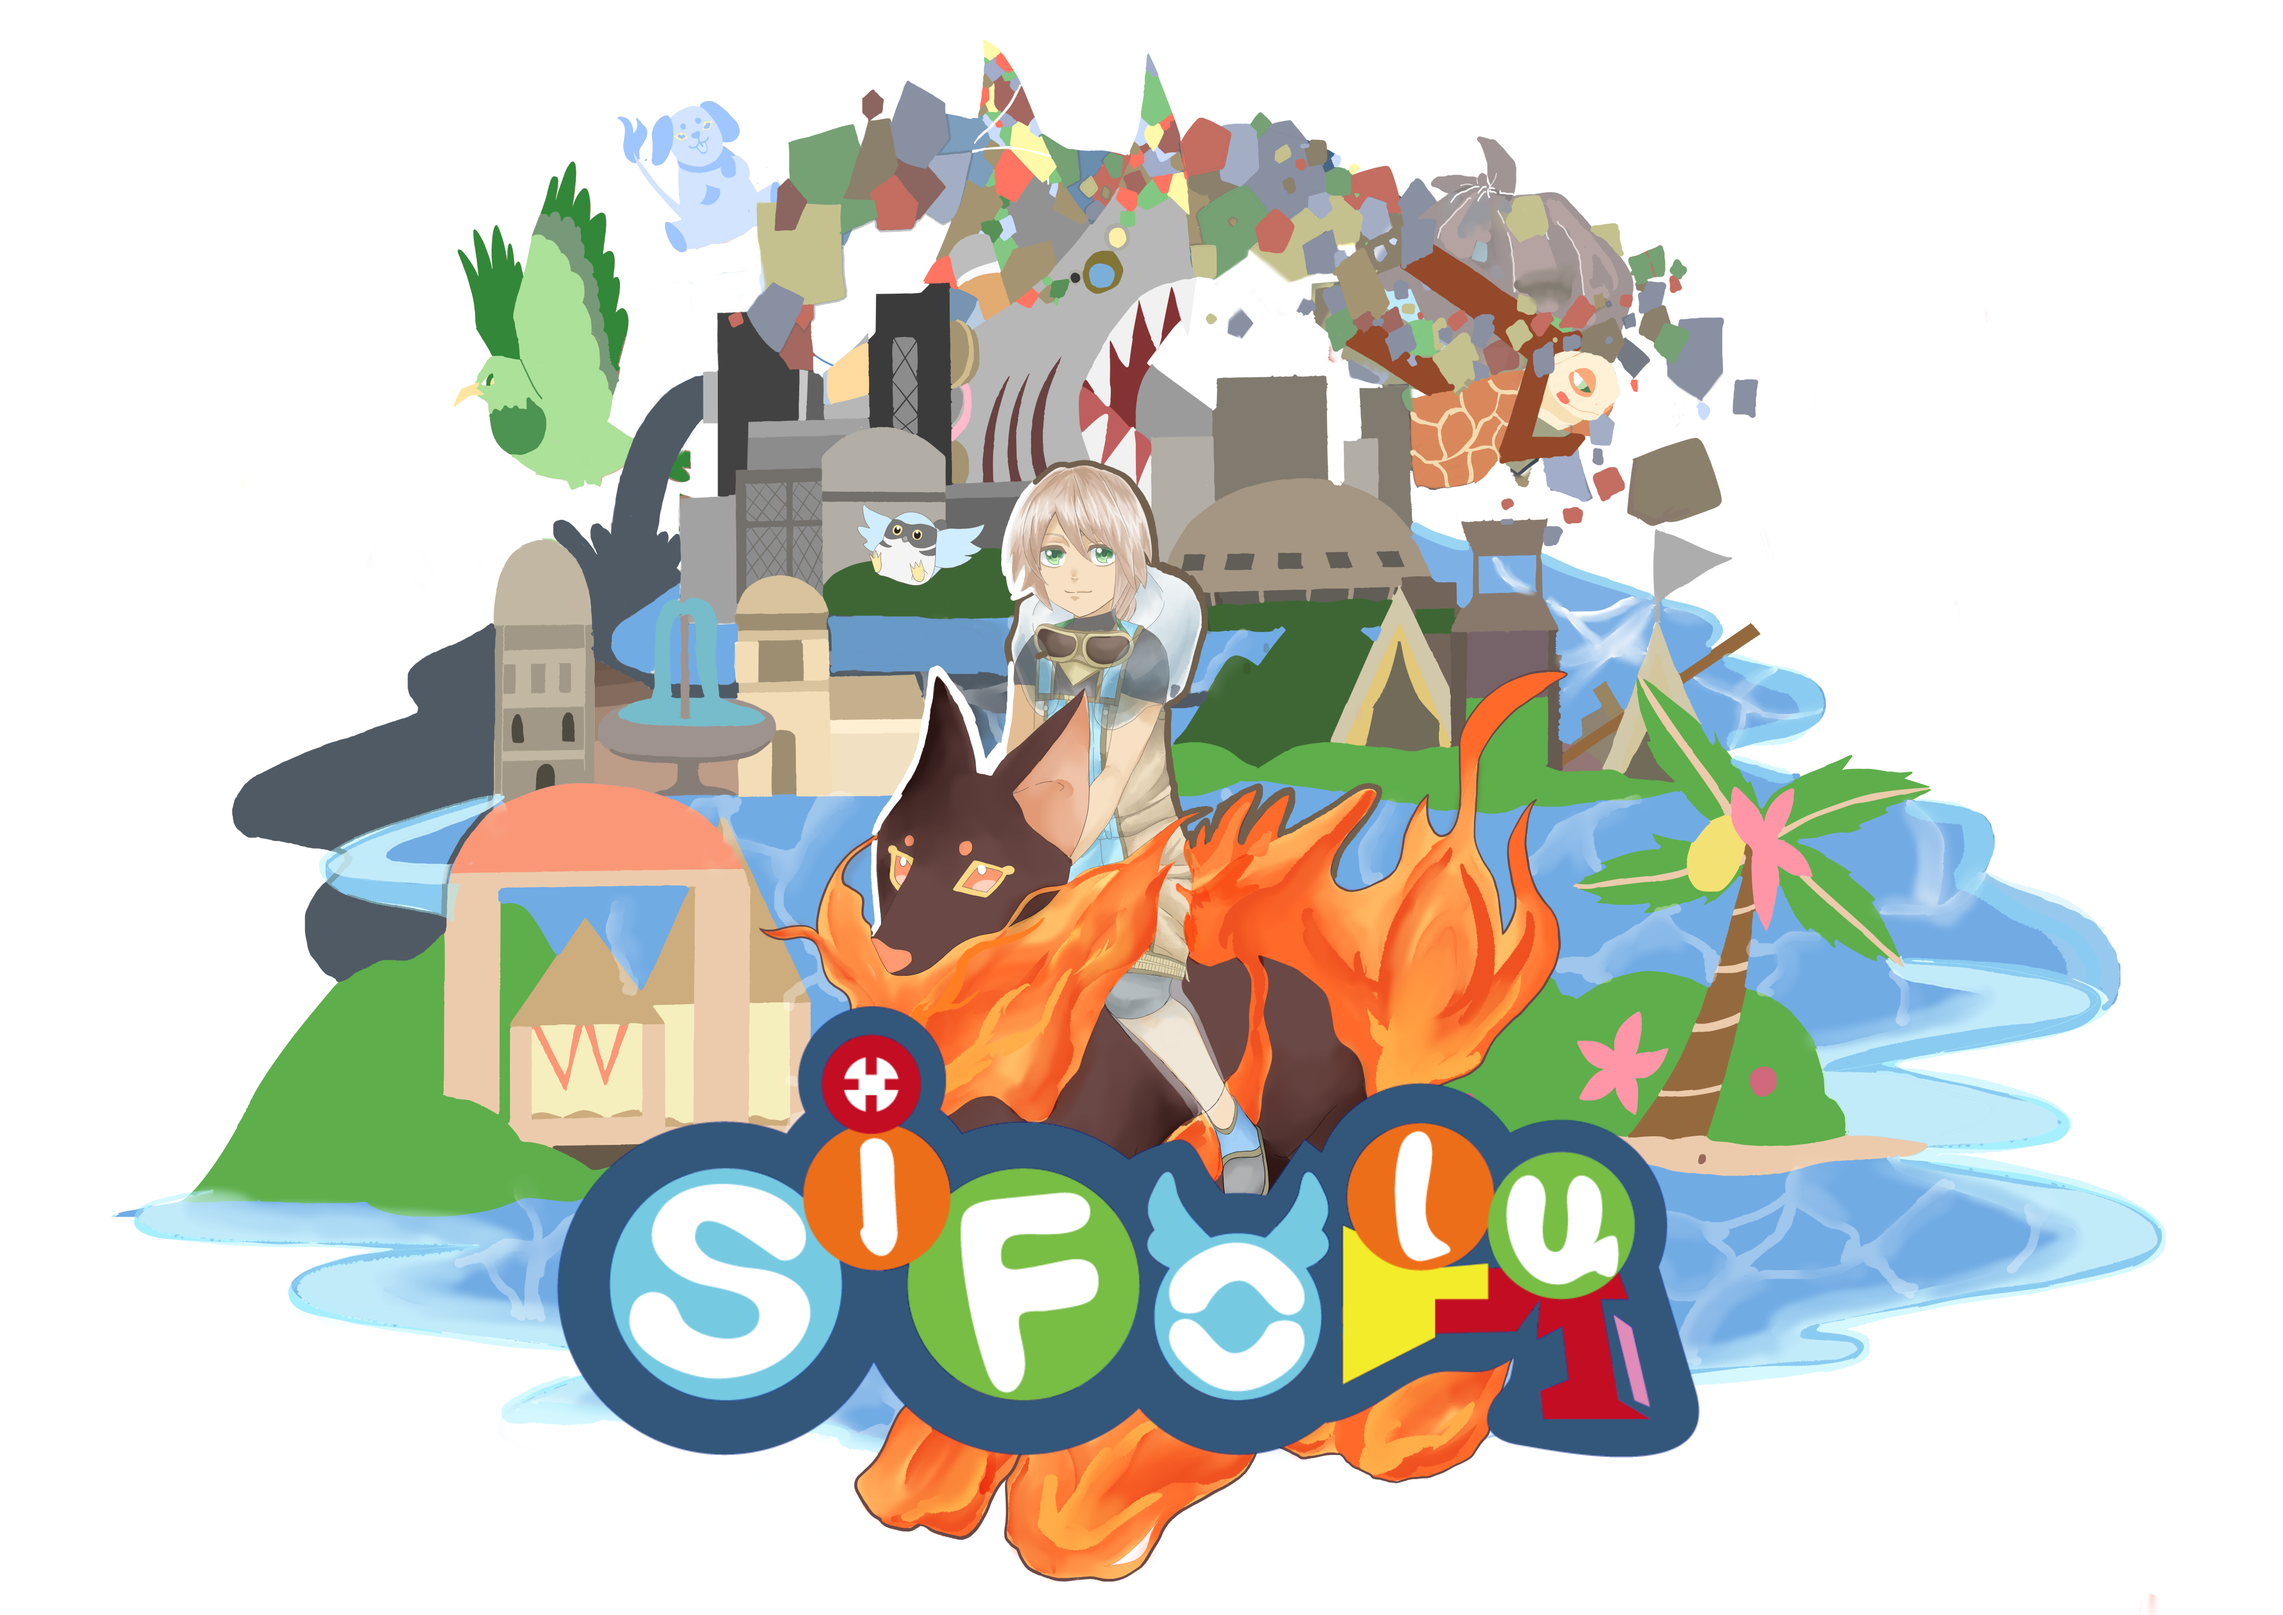
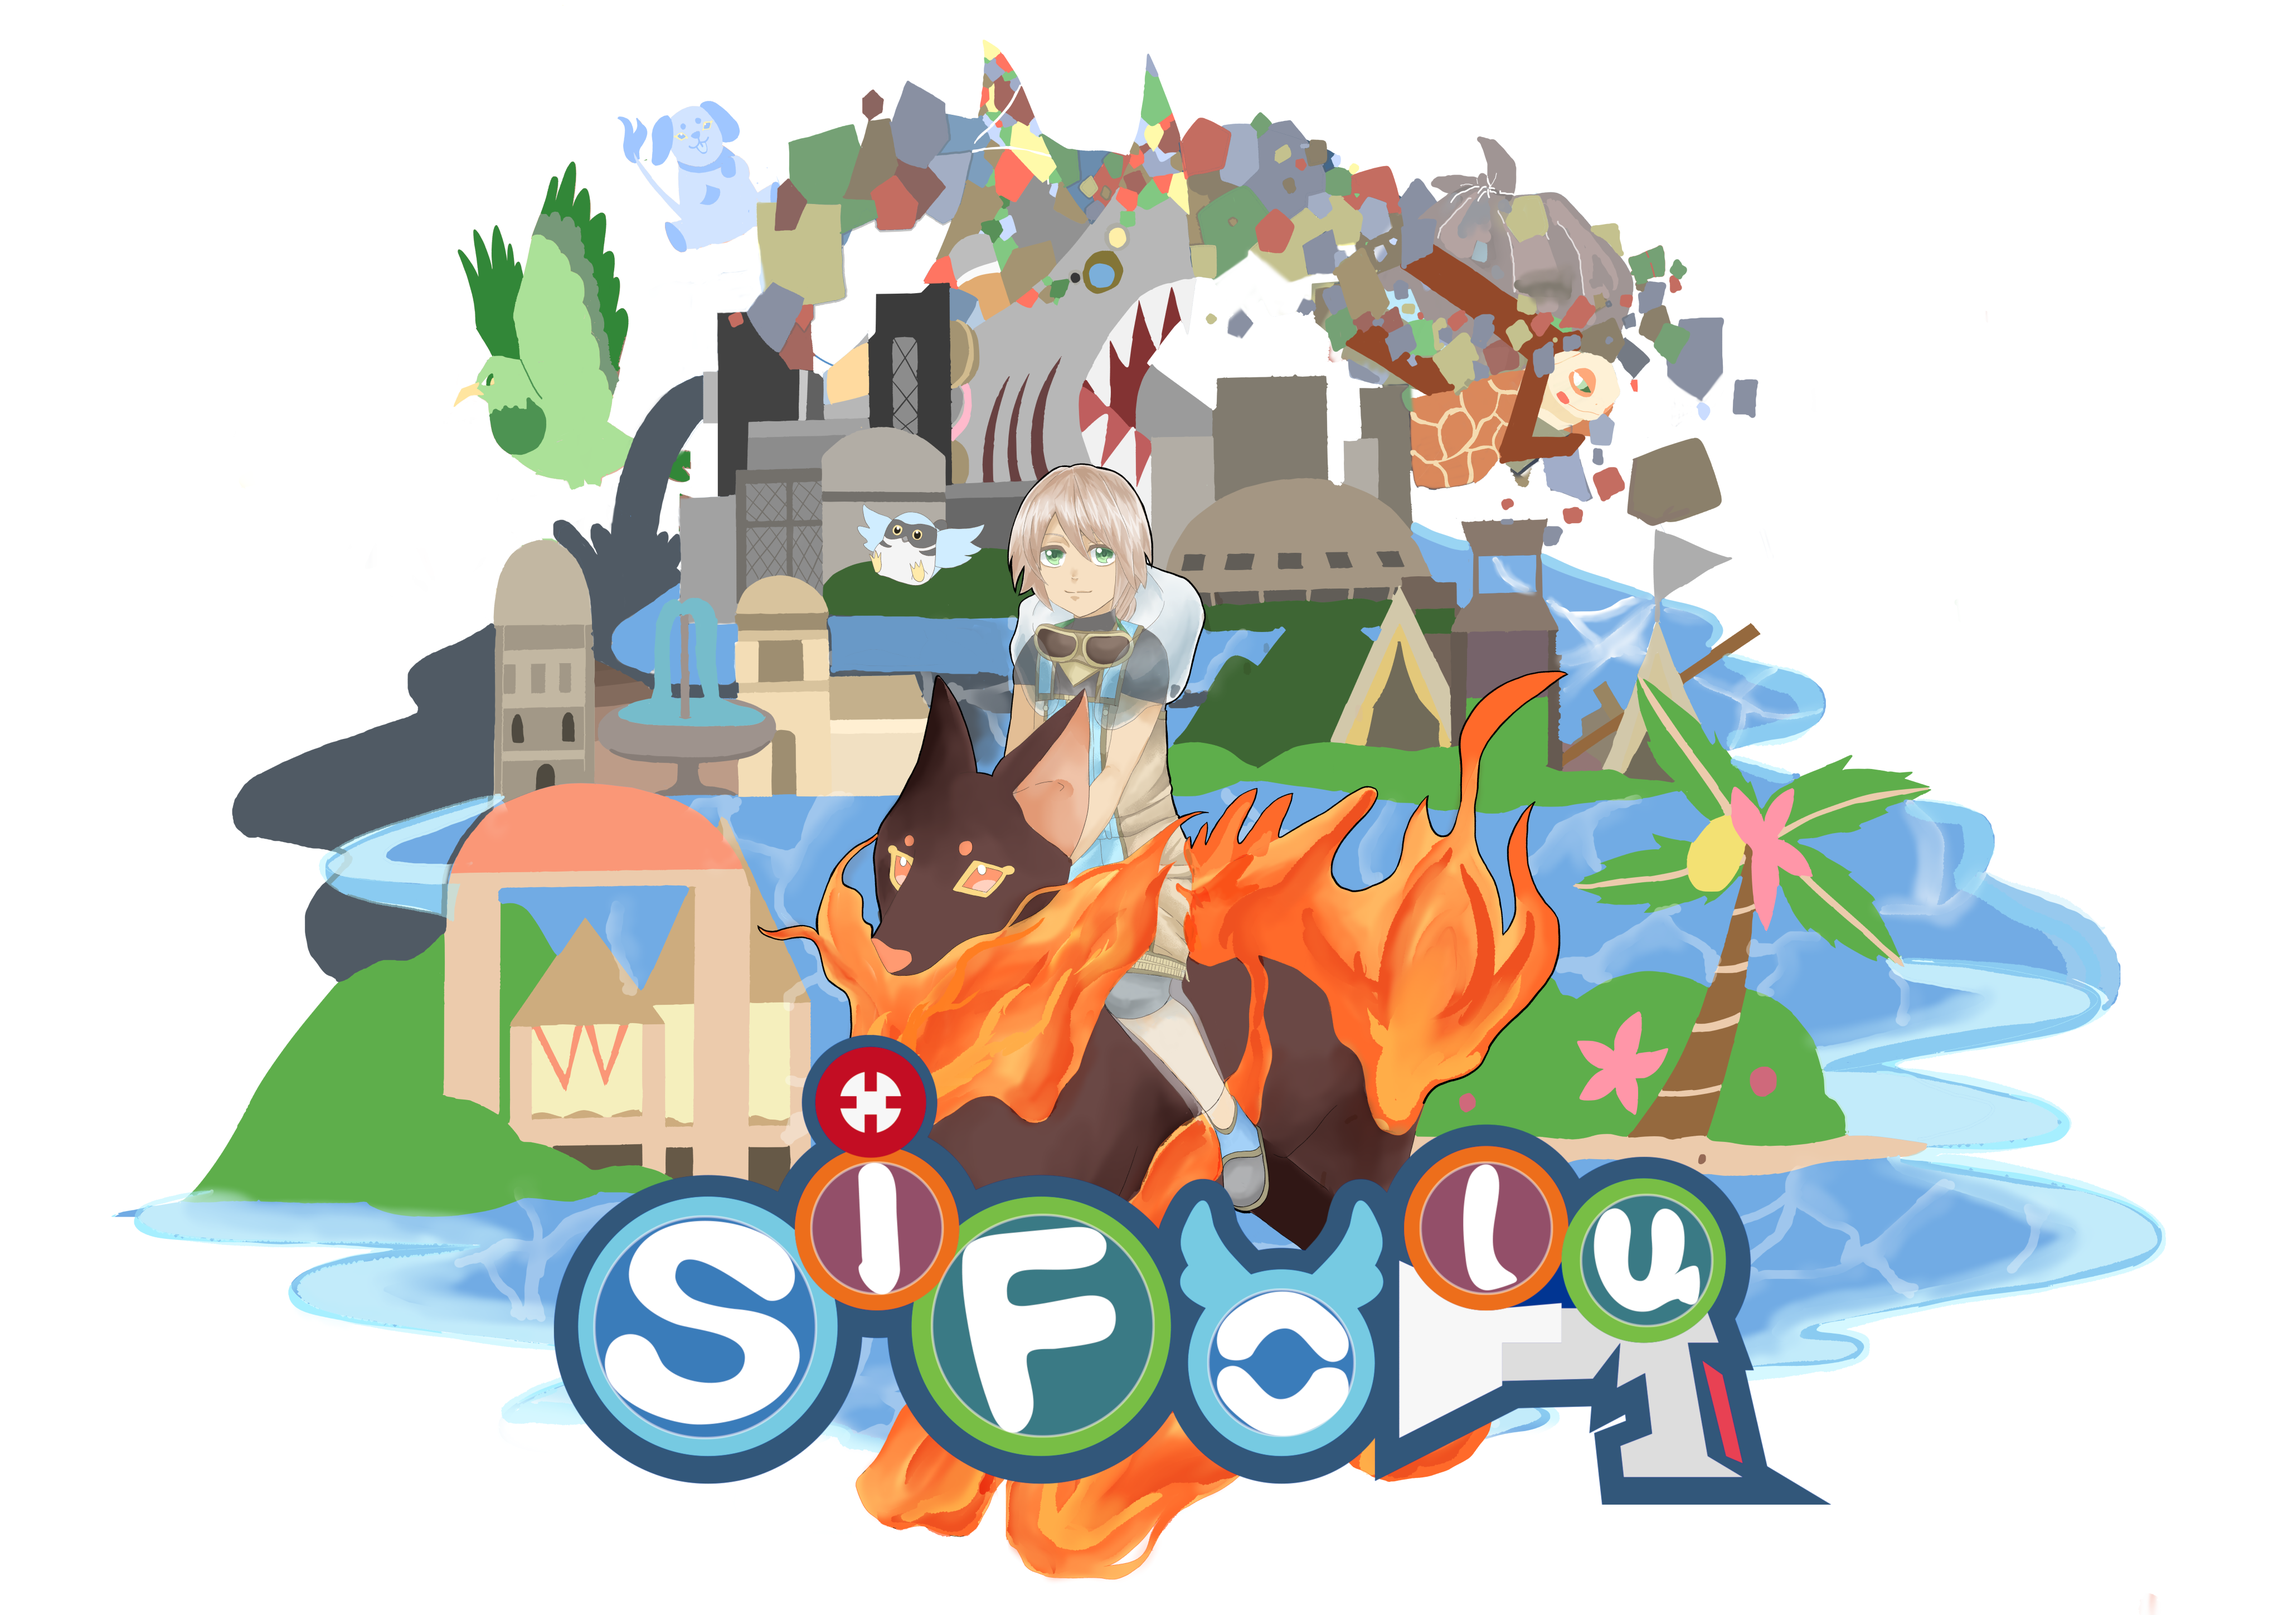
新しいデータを組み込みました。

diff --git a/index.html b/index.html
@@ -7,76 +7,131 @@
   <link rel="stylesheet" type="text/css" href="style.css">
   <link rel="stylesheet" type="text/css" href="common/ress.min.css">
   <script type="text/javascript" src="common/jquery-3.5.1.min.js"></script>
+  <link href="https://fonts.googleapis.com/css?family=Noto+Sans+JP" rel="stylesheet">
   <!-- <script type="text/javascript" src="main.js"></script> -->
   <title>sifolu　シフォル</title>
 </head>
 <body>
-  <div class="img">
+  <div class="img_mv">
     <img src="images/mv.png" class="mv">
+  </div>
+  
+  <div class="background">
+    <div>
+      <h1 class="catch_copy"> キミがかえる、シフォルとかえる。</h1>
+    </div>
+
+    <section class="departure">
+      <h1>シフォルとともに旅立とう!</h1>
+      <div class="img">
+        <img src="images/main_blur.jpg" class="main_blur">
+      </div>
+      <p>森や海、街など表情豊かな世界をシフォルと旅しよう。
+        <br>冒険(ぼうけん)ではいろいろな人たちやさまざまなシフォルに出会うことがある。
+        <br>なかには困っている人や、強力な敵に出会うこともある。
+        <br>「SiFolu」の世界では、ゴミによる海水汚染(おせん)などが大きな問題になっている。
+        <br>このことはシフォルたちにもえいきょうしてしまう。
+        <br>あなたは、仲間のシフォルとともに冒険(ぼうけん)をし、世界をかえよう。
+      </p>
+    </section>
+
+    <section class="encounter">
+      <h1>ある日、主人公は傷ついたシフォルと出会う。</h1>
+      <div class="img">
+        <img src="images/character.png" class="character">
+      </div>
+      <p>主人公</p>
+      <p>とある島に住む心優しい少年。
+        <br>主人公はあることをきっかけに相棒のシフォルと旅に出る。
+        <br>シフォルを仲間のもとへ帰すためにさまざまな島をめぐり、
+        <br>敵をたおして、冒険(ぼうけん)を進めていく。
+      </p>
+      <div class="img">
+        <img src="images/sifolu.png" class="sifolu">
+      </div>
+      <p>相棒のシフォル</p>
+      <p>鳥のフォルムをしたシフォル。
+        <br>おくびょうで主人公以外の人が近づくとかくれようとする。
+        <br>水を切るように速く飛ぶことができる。
+        <br>おしりのハート模様を見た人は幸せになるといわれている。
+      </p>
+    </section>
+
+    <section class="creatures">
+      <h1>広大な自然に生きる個性豊かな生き物</h1>
+      <div class="img">
+        <img src="images/3dcg.png" class="3dcg">
+      </div>
+      <p>シフォル</p>
+      <p>この世界にはシフォルという生き物が存在する。
+        <br>シフォルは生活しているところ、食べ物により姿、形が変化して生きている。
+        <br>火を出したり、水を使ったりと特別な力を身につけることができ、
+        <br>その力を使って助けてくれるときもある。
+      </p>
+    </section>
+
+    <section class="violence">
+      <h1>凶暴(きょうぼう)なシフォル!?</h1>
+      <div class="img">
+        <img src="images/undersea_blur.jpg" class="undersea_blur">
+      </div>
+      <p>トランシフォル</p>
+      <p>シフォルのなかには、ゴミを食べて凶暴(きょうぼう)になってしまったシフォルもいる。
+        <br>凶暴(きょうぼう)になったシフォルは、トランシフォルと呼ばれ、
+        <br>いろいろな場所で暴れまわってしまう。
+        <br>そのえいきょうで、火事や洪水(こうずい)など自然に悪いことが起きてしまう。
+        <br>トランシフォルは主人公たちの冒険(ぼうけん)に立ちはだかる。
+      </p>
+    </section>
+
+    <section class="cooperation">
+      <h1>シフォルと力を合わせよう！</h1>
+      <h2>バトルシステム</h2>
+      <p>主人公は特別な力をもつシフォルと共にトランシフォルと戦う。
+        <br>シフォルに乗って素早く動いたり、シフォルをサポートすることで
+        <br>助け合いながら立ち向かおう。
+      </p>
+    </section>
   </div>
 
   <section>
-    <h1>ーシフォルとともに旅立とうー</h1>
-    <div class="img">
-      <img src="images/ui.png" class="ui">
+    <div>
+      <p>制作</p>
+      <p>シフォル</p>
     </div>
-    <h2>ストーリー</h2>
-    <p>森や海、街など表情豊かな世界をシフォルと旅しよう。
-      <br>冒険(ぼうけん)ではいろいろな人たちやさまざまなシフォルに出会うことがある。
-      <br>なかには困っている人や、強力な敵に出会うこともある。
-      <br>「SiFolu」の世界では、ゴミによる海水汚染(おせん)などが大きな問題になっている。
-      <br>このことはシフォルたちにもえいきょうしてしまう。
-      <br>あなたは、仲間のシフォルとともに冒険(ぼうけん)をし、世界をかえよう。
-    </p>
-  </section>
-
-  <section>
-    <h1>ーある日、主人公は傷ついたシフォルと出会うー</h1>
-    <div class="img">
-      <img src="images/character.png" class="character">
+    <div>
+      <p>対応機種</p>
+      <p>Nintendo Switch</p>
     </div>
-    <h2>主人公</h2>
-    <p>とある島に住む心優しい少年。
-      <br>主人公はあることをきっかけに相棒のシフォルと旅に出る。
-      <br>シフォルを仲間のもとへ帰すためにさまざまな島をめぐり、
-      <br>敵をたおして、冒険(ぼうけん)を進めていく。
-    </p>
-    <h2>相棒のシフォル</h2>
-    <p>鳥のフォルムをしたシフォル。
-      <br>おくびょうで主人公以外の人が近づくとかくれようとする。
-      <br>水を切るように速く飛ぶことができる。
-      <br>おしりのハート模様を見た人は幸せになるといわれている。
-    </p>
-  </section>
-
-  <section>
-    <h1>ー広大な自然に生きる個性豊かな生き物ー</h1>
-    <h2>シフォル</h2>
-    <p>この世界にはシフォルという生き物が存在する。
-      <br>シフォルは生活しているところ、食べ物により姿、形が変化して生きている。
-      <br>火を出したり、水を使ったりと特別な力を身につけることができ、
-      <br>その力を使って助けてくれるときもある。
-    </p>
-  </section>
-
-  <section>
-    <h1>ー凶暴(きょうぼう)なシフォル!?ー</h1>
-    <h2>トランシフォル</h2>
-    <p>シフォルのなかには、ゴミを食べて凶暴(きょうぼう)になってしまったシフォルもいる。
-      <br>凶暴(きょうぼう)になったシフォルは、トランシフォルと呼ばれ、
-      <br>いろいろな場所で暴れまわってしまう。
-      <br>そのえいきょうで、火事や洪水(こうずい)など自然に悪いことが起きてしまう。
-      <br>トランシフォルは主人公たちの冒険(ぼうけん)に立ちはだかる。
-    </p>
-  </section>
-
-  <section>
-    <h1>ーシフォルと力を合わせようー</h1>
-    <h2>バトルシステム</h2>
-    <p>主人公は特別な力をもつシフォルと共にトランシフォルと戦う。
-       <br>シフォルに乗って素早く動いたり、シフォルをサポートすることで
-       <br>助け合いながら立ち向かおう。
-    </p>
+    <div>
+      <p>ジャンル</p>
+      <p>RPG FPS</p>
+    </div>
+    <div>
+      <p>プレイ人数</p>
+      <p>1人(1~4人)</p>
+    </div>
+    <div>
+      <p>通信機能</p>
+      <p>ローカル通信対応
+        <br>インターネット通信対応
+      </p>
+    </div>
+    <div>
+      <p>対応言語</p>
+      <p>日本語</p>
+    </div>
+    <div>
+      <p>CERO</p>
+      <p>B</p>
+    </div>
+    <div>
+      <p>メーカー希望小売価格</p>
+      <p>500 円</p>
+    </div>
+    <div class="img">
+      <img src="images/logo.png" class="logo">
+    </div>
   </section>
 </body>
 </html>

diff --git a/style.css b/style.css
@@ -1,17 +1,33 @@
 body {
-    background-image: url("images/background.png");
-    background-size: 100%;
+       
+}
+.wf-notosansjapanese { 
+    font-family: "Noto Sans JP"; 
 }
 
 h1 {
     text-align: center;
+    font-size: 40pt;
+    font-weight: bold;
+}
+
+/* mvを1920×1080に調節する */
+.img_mv {
+    text-align: center;
+    background-color: white;
+}
+
+/* キャッチコピーを1920×1080に調節する */
+.catch_copy {
+    padding: 30% 0%;
+    color: #243583;
 }
 
 /* 画像たち */
 .mv {
     width: 80%;
 }
-.ui {
+.main_blur {
     width: 90%;
 }
 .character {
@@ -19,4 +35,11 @@ h1 {
 }
 .img {
     text-align: center;
+}
+
+/* 背景画像適応範囲 */
+.background {
+    background-image: url("images/background.png");
+    background-size: 100%;
+    color: white;
 }
